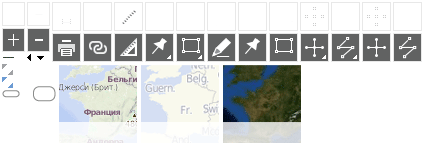
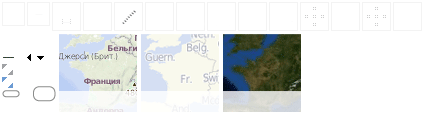
search1

diff --git a/pages/search/apiControls.css b/pages/search/apiControls.css
@@ -36,15 +36,15 @@
 	bottom: 0px;
 }
 .underPage {
-    background: none repeat scroll 0 0 black;
-    opacity: 0.3;
+    background: none repeat scroll 0 0 white;
+    opacity: 0.5;
     width: 100%;	
     height: 20px;
 }
 #control8 {
 	position: absolute;
 	right: 8px;
-	top: 0px;
+	top: 3px;
 }
 #map_control, #satellite_control {
     height: 80px;
@@ -57,28 +57,26 @@
 #control_copyright {
 	position: absolute;
 	left: 18px;
-	top: 0px;
+	top: 2px;
 	font-family: Tahoma;
-	font-size: 10pt;
-    font-weight: bold;
+	font-size: 9pt;
 }
 
 #locationTxt {
 	font-family: Tahoma;
-	font-size: 10pt;
-    font-weight: bold;
+	font-size: 9pt;
     margin-right: 20px;	
 	cursor: pointer;
 }
 #scaleBarTxt {
 	font-family: Tahoma;
-	font-size: 10pt;
-    font-weight: bold;
+	font-size: 9pt;
 }
 #scaleBar {
+	border: 1px solid black;
     background-color: white;
     display: inline-block;
-    height: 8px;
+    height: 4px;
     width: 40px;
 	margin-bottom: 1px;
 }
@@ -127,12 +125,12 @@
 	float: none ! important;
 }
 #Print { 			background-position:-52px -2px; }
-#Print:hover { 		background-position:-52px -33px; }
+#Print:hover { 		background-color: #616262; }
 #PermaLinkControl { 				background-position:-83px -2px; }
 #PermaLinkControl:hover { 		background-color: #616262; }
 
 .Rules { 			background-position:-114px -2px; }
-.Rules:hover { 		background-position:-114px -33px; }
+.Rules:hover { 		background-color: #616262; }
 .Button { 			background-position:-238px -2px; }
 .Button:hover {		background-color: #616262; }
 
@@ -156,7 +154,7 @@
 .LineSelect:hover { background-color: #616262; }
 
 .Pen { 				background-position:-207px -2px; }
-.Pen:hover { 		background-position:-207px -33px; }
+.Pen:hover { 		background-color: #616262; }
 
 .Hover {
 	background-color: #616262 ! important;
@@ -249,7 +247,7 @@
 	margin: 6px 3px;
 }
 .Plus:hover {
-	background-position:-2px -28px;
+	background-color: #616262;
 }
 .Minus {
 	width: 23px;
@@ -258,7 +256,7 @@
 	margin: 6px 3px;
 }
 .Minus:hover {
-	background-position:-27px -28px;
+	background-color: #616262;
 }
 
 .Rulers {
@@ -479,11 +477,11 @@
 .satelliteIcon
 {
     background-image: url("icone.png") ! important;
-    background-position:-58px -64px ! important;
+    background-position:-58px -33px ! important;
 }
 
 .mapIcon
 {
     background-image: url("icone.png") ! important;
-    background-position:-222px -64px ! important;
+    background-position:-222px -33px ! important;
 }

diff --git a/pages/search/apiControls.js b/pages/search/apiControls.js
@@ -52,7 +52,7 @@
 				control.baseLayers.satelliteControl.style.display = (mode === 'satellite' ? 'block' : 'none');
 				control.baseLayers.mapControl.style.display = (mode === 'map' ? 'block' : 'none');
 				control.baseLayers.currMode = mode;
-				document.getElementById("control7").className = (mode === 'map' ? 'whiteColor' : '');
+				//document.getElementById("control7").className = (mode === 'map' ? 'whiteColor' : '');
 				//console.log('setMapType ', mode);
 			}
 			,
